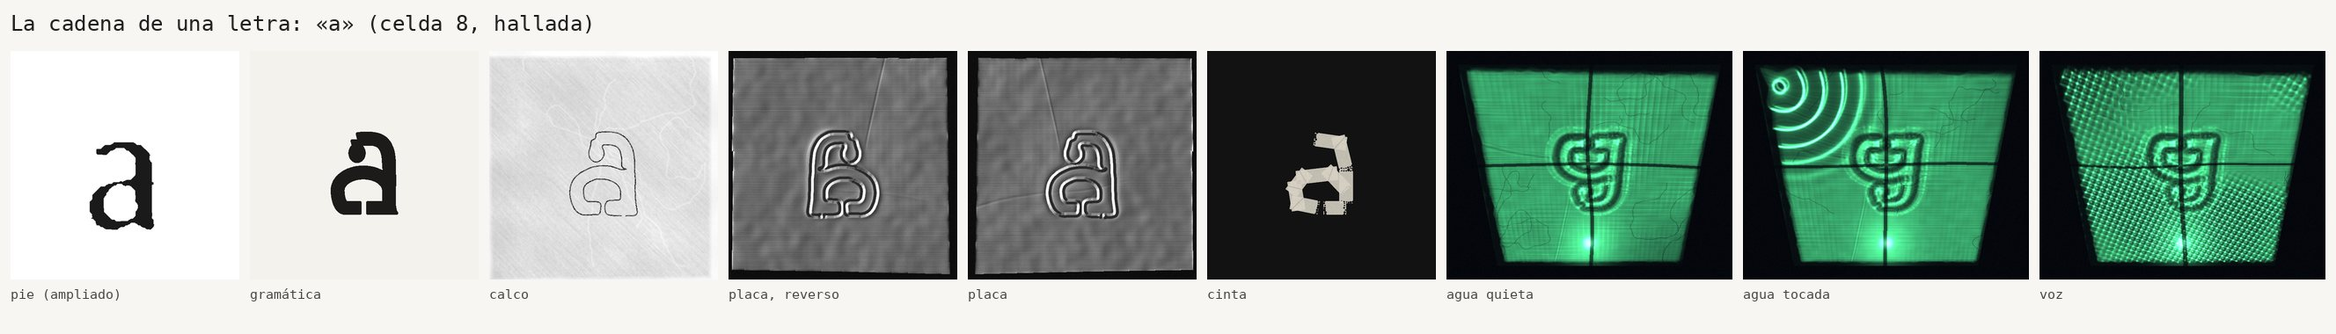
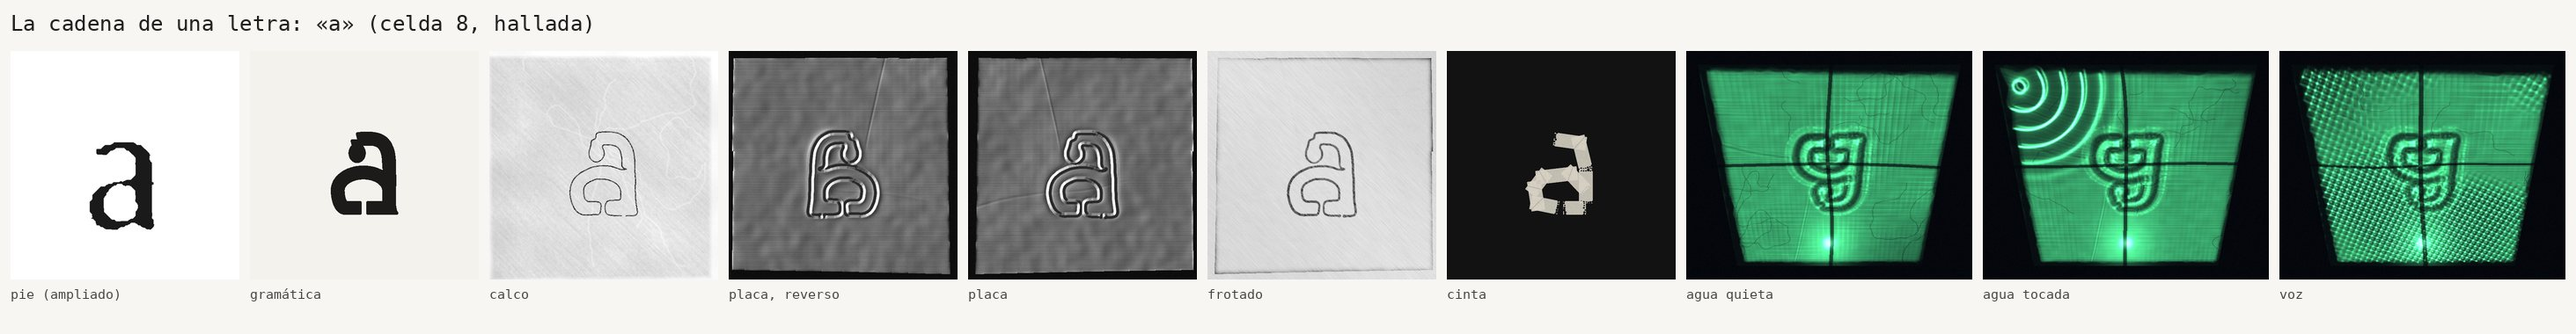
Suma el frotado de la placa como sexto simulador
Un papel sobre la placa, por el anverso, frotado con grafito: el gesto de
la acción 1, ahora sobre la letra. El papel toca toda la hoja y se carga
donde la placa sube por encima de su entorno. Cada frotada aplasta un
poco el relieve; se frota hasta que la letra no se lee, y el peso de una
letra se mide en frotadas. Las halladas se leen unas 21; las
reconstruidas, a puntos, unas 10. El signo final (un domo liso) no da
frotada.

Claude-Session: https://claude.ai/code/session_01N5Zkq8zbLz6mFAaknT38uV

diff --git a/tipografia/simulacion/simular.py b/tipografia/simulacion/simular.py
@@ -5,7 +5,7 @@ Uso (desde la raíz del repositorio, después de inventario.py):
     python3 tipografia/simulacion/simular.py
 
 Arma el testigo del pie y la gramática, y corre los simuladores del taller
-—calco, placa, cinta, agua y voz— sobre las 56 celdas y las 119 placas.
+—calco, placa, frotado, cinta, agua y voz— sobre las 56 celdas y las 119 placas.
 Escribe en tipografia/simulacion/salida/:
   láminas (JPG y PNG) por estado,
   agua.gif (la palabra «agua» en el agua tocada) y voz.gif (la palabra «voz» movida por una voz),
@@ -29,7 +29,7 @@ from comun import (CELDAS, FUENTE_TESTIGO, GLIFOS, POR_SIGNO, SALIDA, T, VERSOS,
                    guardar, lamina, poliza, rotulo)
 from contener import foto_placa, repujar_placa, reverso, signo_final
 from desenterrar import calco, celda_notdef, desenterrar, dibujar_trazos, frotado, pared
-from devolver import agua, agua_tocada_en_bucle, foto_agua, voz_del_verso, voz_en_bucle
+from devolver import agua, agua_tocada_en_bucle, foto_agua, frotadas, voz_del_verso, voz_en_bucle
 from gramatica import V, celda, encintar, imagen_cuerpo
 
 OSCURO = dict(fondo=(0.06, 0.06, 0.08), tinta=(0.85, 0.9, 0.85), junta=(0.12, 0.12, 0.14))
@@ -131,6 +131,26 @@ def main():
         fila_de_paneles([f for _, f in rotas], [f"«{s}» rota" for s, _ in rotas], SALIDA / "04b_placas_rotas.jpg", alto=260,
                         titulo="Placas que se rompieron: se guardan en la caja y se hace otra")
 
+    # ------------------------------------------------ frotado: papel y grafito sobre la placa
+    paso("frotado: frotar cada placa hasta que no se lea")
+    frotados, legibles = {}, {}
+    for c in CELDAS:
+        celda_ = c["celda"]
+        imgs, n = frotadas(placas[(celda_, 1)], azar("frotado", celda_))
+        frotados[celda_] = imgs[1]
+        legibles[celda_] = n
+        fichas[f"{celda_:02d}.01"]["frotado"] = {"legibles": n}
+        if celda_ == POR_SIGNO["a"]["celda"]:
+            orden = sorted(imgs)
+            fila_de_paneles([imgs[k] for k in orden], [f"frotada {k}" + (" (la última que se lee)" if k == n else "")
+                                                         for k in orden],
+                            SALIDA / "08b_frotadas_de_la_a.jpg", alto=300,
+                            titulo=f"La misma «a» frotada una y otra vez: cada frotada aplasta el relieve. Se leyeron {n}")
+    lamina(frotados, "Frotado · simulación",
+           "Un papel sobre la placa, por el anverso, frotado con grafito: el mismo gesto con el que empezó todo (la pared).\n"
+           "Se marca lo que sobresale. Primera frotada de cada placa; cada una aplasta un poco el relieve.",
+           SALIDA / "08_frotado.jpg")
+
     # ------------------------------------------------ cinta: la letra con la masking de ojos y boca
     paso("cinta: la letra puesta con masking")
     cintas = {}
@@ -192,16 +212,17 @@ def main():
         t = D["testigos"].get(s)
         primero = [cuadrado(1 - t["crudo"].astype(np.float32) * 0.9)] if t else [np.ones((T, T), np.float32)]
         paneles = primero + [imagen_cuerpo(D["gramatica"][s]["mascara"]), calcos[celda_], foto_r[celda_], foto_a[celda_],
-                             cintas[celda_], quietas[celda_], tocadas[celda_], voces[celda_]]
+                             frotados[celda_], cintas[celda_], quietas[celda_], tocadas[celda_], voces[celda_]]
         rot = (["pie (ampliado)"] if t else ["no está en el pie"]) + ["gramática", "calco", "placa, reverso", "placa",
-                                                                     "cinta", "agua quieta", "agua tocada", "voz"]
+                                                                     "frotado", "cinta", "agua quieta", "agua tocada",
+                                                                     "voz"]
         fila_de_paneles(paneles, rot, SALIDA / f"12_cadena_{celda_:02d}.jpg", alto=260,
                         titulo=f"La cadena de una letra: «{s}» (celda {celda_}, {'hallada' if t else 'reconstruida'})")
 
     # ------------------------------------------------ fichas e informe
     paso("fichas e informe")
     (SALIDA / "fichas_simuladas.json").write_text(json.dumps(fichas, ensure_ascii=False, indent=1), encoding="utf8")
-    informe(D, fichas, pol)
+    informe(D, fichas, pol, legibles)
     paso("listo")
 
 
@@ -412,7 +433,7 @@ def lamina_antes_y_despues(D, letras="aoegrcfsjiáqbp"):
     guardar(SALIDA / "03d_antes_y_despues.png", lienzo)
 
 
-def informe(D, fichas, pol):
+def informe(D, fichas, pol, legibles):
     med, e = D["med"], D["esqueleto"]
     P = D["parametros"]
 
@@ -437,6 +458,14 @@ def informe(D, fichas, pol):
                 + ("**Lo que la máquina no diseñó y apareció:** las reconstruidas, hechas a puntos, llegan más débiles al agua. "
                    "El punteado tiene menos relieve que el surco y desvía menos luz: en el agua, las hipótesis se ven menos."
                    if cr < ch else "Las reconstruidas no llegan más débiles al agua."))
+    sig = {c["celda"]: c["signo"] for c in CELDAS}
+    orden = sorted(((c, n) for c, n in legibles.items() if est[c] != "manos"), key=lambda kv: kv[1])
+    final = next(n for c, n in legibles.items() if est[c] == "manos")
+    fh = np.mean([n for c, n in legibles.items() if est[c] == "hallada"])
+    fr = np.mean([n for c, n in legibles.items() if est[c] == "reconstruida"])
+    frotado_txt = (f"Las halladas se leen, en promedio, hasta la frotada {coma(fh)}; las reconstruidas, hasta la {coma(fr)}. "
+                   + ("**Lo que la máquina no diseñó y apareció:** las hipótesis, hechas a puntos, tienen menos relieve que "
+                      "tomar el grafito y se borran antes." if fr < fh else "Las reconstruidas no se borran antes que las halladas."))
     tramos = sum(f.get("cinta", {}).get("tramos", 0) for f in fichas.values())
     pliegues = sum(f.get("cinta", {}).get("pliegues", 0) for f in fichas.values())
     xh = e["xh"]
@@ -448,8 +477,8 @@ def informe(D, fichas, pol):
          "",
          "La semilla es fija (el 22 de agosto de 2026): el resultado es siempre el mismo. Cambiarla es cambiar de mano.",
          "",
-         "La máquina simula cinco estados del taller: **calco, placa, cinta, agua y voz**. Antes arma el testigo del pie y "
-         "la gramática, que da el cuerpo base de cada signo.",
+         "La máquina simula seis estados del taller: **calco, placa, frotado, cinta, agua y voz**. Antes arma el testigo del "
+         "pie y la gramática, que da el cuerpo base de cada signo.",
          "",
          "## Lo que la máquina tuvo que suponer",
          "",
@@ -462,6 +491,7 @@ def informe(D, fichas, pol):
          "- **La celda:** 0,84 de ancho por alto, la proporción de las celdas de la cabeza del ídolo. En la foto cercana de la "
          "cabeza, el paso de la retícula de 8 × 7 mide 0,81 en los bordes y 0,91 al centro (promedio 0,86): el dibujo curva "
          "la cabeza como un cilindro. El 0,84 cae dentro.",
+         "- **El frotado:** cada frotada aplasta entre un 5 y un 9 % del relieve del surco. Es un supuesto: se mide frotando.",
          "- **La voz:** no es la tuya. Es el ritmo silábico del poema, con alturas inventadas entre 110 y 220 Hz.",
          "- **El signo final:** la máquina no tiene dedos. Simula una sola presión de un pulgar genérico.",
          "",
@@ -593,6 +623,23 @@ def informe(D, fichas, pol):
           "",
           "![Rotas](salida/04b_placas_rotas.jpg)",
           "",
+          "## Frotado",
+          "",
+          "![Frotado](salida/08_frotado.jpg)",
+          "",
+          "![Frotadas de la a](salida/08b_frotadas_de_la_a.jpg)",
+          "",
+          "Un papel sobre la placa, por el anverso, frotado con grafito: el gesto de la acción 1, ahora sobre la letra. El papel "
+          "no entra en los valles finos; toca toda la hoja y se carga donde la placa sube por encima de su entorno. Se frota "
+          "hasta que la letra no se lee: **el peso de una letra se mide en frotadas.** " + frotado_txt,
+          "",
+          "**Las primeras en borrarse:** " + ", ".join(f"«{sig[c]}» ({n})" for c, n in orden[:8]) + ".",
+          "",
+          "**Las últimas:** " + ", ".join(f"«{sig[c]}» ({n})" for c, n in orden[-8:]) + ".",
+          "",
+          (f"El signo final, una presión de pulgar, da {final} frotadas legibles: el domo es liso y el papel lo acompaña; "
+           "solo marca el filo." if final == 0 else f"El signo final, una presión de pulgar, da {final} frotadas legibles."),
+          "",
           "## Cinta",
           "",
           "![Cinta](salida/07_cinta.jpg)",
@@ -634,6 +681,7 @@ def informe(D, fichas, pol):
           "- **El libro:** qué letra tiene el pie en su tamaño real, ni cómo se imprimió. La foto da sus medidas, no sus formas.",
           "- **La mano:** el temblor es ruido con un ritmo; no cansa, no duda, no se distrae.",
           "- **El aluminio:** cómo se rompe de verdad. Aquí se rompe con una probabilidad.",
+          "- **El grafito:** cuánto relieve se lleva cada frotada.",
           "- **La cinta:** cómo se despega de verdad; aquí cada tramo deja un residuo supuesto.",
           "- **El agua:** un solo rebote, un eco desplazado y ninguna polarización.",
           "- **La voz:** no es la tuya.",
@@ -643,7 +691,7 @@ def informe(D, fichas, pol):
           "Cuando exista tu propuesta, conviene guardarla con los mismos nombres para compararlas placa por placa:",
           "",
           "- **Fotos:** `tipografia/mano/<estado>/<celda>_<variante>.jpg`, con dos dígitos (`mano/placa/08_01.jpg`) y estas "
-          "carpetas de estado: `calco`, `placa`, `cinta`, `agua`, `voz`.",
+          "carpetas de estado: `calco`, `placa`, `frotado`, `cinta`, `agua`, `voz`.",
           "- **Fichas:** `tipografia/mano/fichas.json`, con los mismos campos que `salida/fichas_simuladas.json`.",
           "",
           "**Qué se compara:**",
@@ -654,8 +702,9 @@ def informe(D, fichas, pol):
           "3. **Reconstrucciones:** las 25 recetas de la máquina contra las tuyas. Es donde más van a diferir, y donde más "
           "interesa.",
           "4. **Tiempo y roturas:** horas, intentos y roturas por placa.",
-          "5. **Agua:** si las reconstruidas también llegan más débiles.",
-          "6. **Voz:** qué sílaba le tocó a cada placa y qué onda dejó.",
+          "5. **Frotado:** cuántas frotadas se leen, y qué signos se borran primero.",
+          "6. **Agua:** si las reconstruidas también llegan más débiles.",
+          "7. **Voz:** qué sílaba le tocó a cada placa y qué onda dejó.",
           ""]
     (SALIDA.parent / "informe.md").write_text("\n".join(L), encoding="utf8")
 

diff --git a/tipografia/simulacion/devolver.py b/tipografia/simulacion/devolver.py
@@ -1,4 +1,10 @@
-"""Cuaderno 3 · Devolver: el agua y la voz (acciones 9 y 10), simuladas.
+"""Cuaderno 3 · Devolver: el frotado, el agua y la voz (acciones 8 a 10), simulados.
+
+El frotado: un papel sobre la placa, por el anverso, frotado con grafito, el mismo
+gesto con el que empezó todo (la pared). El papel toca toda la hoja, pero se carga
+donde la placa sube por encima de su entorno. Cada frotada aplasta un poco el
+relieve: se frota hasta que la letra no se lee. El peso de una letra se mide en
+frotadas.
 
 La placa en el fondo de una bandeja con un dedo de agua. La luz de una lámpara
 rebota en la placa y cae en unos azulejos: cada punto de la placa desvía la luz
@@ -19,6 +25,67 @@ from desenterrar import pared
 
 VERDE = np.array([0.30, 1.0, 0.58])
 
+
+# ---------------------------------------------------------------- acción 8: el frotado
+
+def _trazos_de_grafito(rng, forma, n=3):
+    """Unas pocas texturas de trazos diagonales: la mano va y viene."""
+    k = np.zeros((25, 25), np.float32)
+    np.fill_diagonal(k, 1)
+    salida = []
+    for _ in range(n):
+        t = cv2.filter2D(rng.standard_normal(forma).astype(np.float32), -1, k / k.sum())
+        salida.append(t / (t.std() + 1e-9))
+    return salida
+
+
+def frotar(altura, mascara, rng, trazo, grano):
+    """Una frotada: el papel no entra en los valles finos (se apoya a unos 2 mm); toca toda la hoja
+    y se carga donde la placa sube por encima de su entorno, y en el filo del corte."""
+    forma = altura.shape
+    h = np.where(mascara, altura, altura[mascara].min() - 0.3)
+    envolvente = cv2.GaussianBlur(h, (0, 0), 7)
+    contacto = 0.16 + 0.84 * np.clip((h - envolvente) / 0.9, 0, 1) ** 1.2
+    presion = 0.85 + 0.12 * ruido(forma, 150, rng)
+    oscuro = 0.8 * contacto * np.clip(presion + 0.14 * trazo + 0.08 * grano, 0, 1.1)
+    return np.clip((0.965 + 0.012 * grano) * (1 - oscuro), 0, 1)
+
+
+def frotadas(placa, rng, maximo=45, guardar=(1, 5, 10, 20)):
+    """Frotadas sucesivas de una misma placa, hasta que la letra no se lee.
+
+    Cada frotada aplasta entre un 5 y un 9 % del relieve del surco, y un poco las arrugas
+    de la hoja. La letra se lee mientras el grafito sobre el surco se aparta del de su
+    alrededor más de tres veces lo que varía ese alrededor. Devuelve las frotadas pedidas
+    (y la última legible) y cuántas se leyeron.
+    """
+    forma = placa["altura"].shape
+    trazos = _trazos_de_grafito(rng, forma)
+    grano = ruido(forma, 0.7, rng)
+    relieve = placa["relieve"].astype(np.float32).copy()
+    base = placa["altura"] - relieve
+    letra = cv2.dilate((np.abs(relieve) > 0.32).astype(np.uint8), np.ones((5, 5), np.uint8)) > 0
+    lejos = ~(cv2.dilate(letra.astype(np.uint8), np.ones((21, 21), np.uint8)) > 0)
+    adentro = cv2.distanceTransform(placa["mascara"].astype(np.uint8), cv2.DIST_L2, 5) > 12
+    alrededor = lejos & adentro                         # la hoja lejos de la letra y del filo del corte
+    imagenes, legibles, ultima = {}, 0, None
+    for n in range(1, maximo + 1):
+        img = frotar(base + relieve, placa["mascara"], rng, np.roll(trazos[n % 3], 37 * n, axis=1), grano)
+        d = cv2.GaussianBlur(1 - img, (0, 0), 1.5)       # el ojo junta los granos del grafito
+        se_lee = d[letra].mean() - d[alrededor].mean() > 3 * d[alrededor].std()
+        if n in guardar:
+            imagenes[n] = img
+        if not se_lee:
+            break
+        legibles, ultima = n, img
+        relieve *= 1 - rng.uniform(0.05, 0.09)
+        base = base * 0.98
+    if ultima is not None:
+        imagenes[legibles] = ultima
+    return imagenes, legibles
+
+
+# ---------------------------------------------------------------- acciones 9 y 10: agua y voz
 
 def superficie_quieta(forma, rng):
     return 1.0 * ruido(forma, 60, rng)

diff --git a/tipografia/simulacion/informe.md b/tipografia/simulacion/informe.md
@@ -4,7 +4,7 @@ Generado por `simular.py`. Es una **hipótesis hecha por código**, para confron
 
 La semilla es fija (el 22 de agosto de 2026): el resultado es siempre el mismo. Cambiarla es cambiar de mano.
 
-La máquina simula cinco estados del taller: **calco, placa, cinta, agua y voz**. Antes arma el testigo del pie y la gramática, que da el cuerpo base de cada signo.
+La máquina simula seis estados del taller: **calco, placa, frotado, cinta, agua y voz**. Antes arma el testigo del pie y la gramática, que da el cuerpo base de cada signo.
 
 ## Lo que la máquina tuvo que suponer
 
@@ -12,6 +12,7 @@ La máquina simula cinco estados del taller: **calco, placa, cinta, agua y voz**
 - **El cuerpo del pie:** 8,5 puntos.
 - **La piscina:** azulejo de 150 mm y junta de 3 mm, hasta que se mida. La pared da el frotado sobre el que se calca.
 - **La celda:** 0,84 de ancho por alto, la proporción de las celdas de la cabeza del ídolo. En la foto cercana de la cabeza, el paso de la retícula de 8 × 7 mide 0,81 en los bordes y 0,91 al centro (promedio 0,86): el dibujo curva la cabeza como un cilindro. El 0,84 cae dentro.
+- **El frotado:** cada frotada aplasta entre un 5 y un 9 % del relieve del surco. Es un supuesto: se mide frotando.
 - **La voz:** no es la tuya. Es el ritmo silábico del poema, con alturas inventadas entre 110 y 220 Hz.
 - **El signo final:** la máquina no tiene dedos. Simula una sola presión de un pulgar genérico.
 
@@ -184,6 +185,20 @@ Papel de aluminio de cocina, cortado a tijera: cada lado en dos o tres cortes, c
 
 ![Rotas](salida/04b_placas_rotas.jpg)
 
+## Frotado
+
+![Frotado](salida/08_frotado.jpg)
+
+![Frotadas de la a](salida/08b_frotadas_de_la_a.jpg)
+
+Un papel sobre la placa, por el anverso, frotado con grafito: el gesto de la acción 1, ahora sobre la letra. El papel no entra en los valles finos; toca toda la hoja y se carga donde la placa sube por encima de su entorno. Se frota hasta que la letra no se lee: **el peso de una letra se mide en frotadas.** Las halladas se leen, en promedio, hasta la frotada 22,1; las reconstruidas, hasta la 9,8. **Lo que la máquina no diseñó y apareció:** las hipótesis, hechas a puntos, tienen menos relieve que tomar el grafito y se borran antes.
+
+**Las primeras en borrarse:** «é» (7), «;» (8), «:» (8), «»» (8), «z» (9), «?» (9), «ñ» (9), «2» (9).
+
+**Las últimas:** «)» (23), «b» (23), «s» (24), «o» (24), «r» (24), «l» (24), «c» (24), «í» (24).
+
+El signo final, una presión de pulgar, da 0 frotadas legibles: el domo es liso y el papel lo acompaña; solo marca el filo.
+
 ## Cinta
 
 ![Cinta](salida/07_cinta.jpg)
@@ -219,6 +234,7 @@ El poema se lee una vez en voz alta junto a la bandeja, mientras se fotografían
 - **El libro:** qué letra tiene el pie en su tamaño real, ni cómo se imprimió. La foto da sus medidas, no sus formas.
 - **La mano:** el temblor es ruido con un ritmo; no cansa, no duda, no se distrae.
 - **El aluminio:** cómo se rompe de verdad. Aquí se rompe con una probabilidad.
+- **El grafito:** cuánto relieve se lleva cada frotada.
 - **La cinta:** cómo se despega de verdad; aquí cada tramo deja un residuo supuesto.
 - **El agua:** un solo rebote, un eco desplazado y ninguna polarización.
 - **La voz:** no es la tuya.
@@ -227,7 +243,7 @@ El poema se lee una vez en voz alta junto a la bandeja, mientras se fotografían
 
 Cuando exista tu propuesta, conviene guardarla con los mismos nombres para compararlas placa por placa:
 
-- **Fotos:** `tipografia/mano/<estado>/<celda>_<variante>.jpg`, con dos dígitos (`mano/placa/08_01.jpg`) y estas carpetas de estado: `calco`, `placa`, `cinta`, `agua`, `voz`.
+- **Fotos:** `tipografia/mano/<estado>/<celda>_<variante>.jpg`, con dos dígitos (`mano/placa/08_01.jpg`) y estas carpetas de estado: `calco`, `placa`, `frotado`, `cinta`, `agua`, `voz`.
 - **Fichas:** `tipografia/mano/fichas.json`, con los mismos campos que `salida/fichas_simuladas.json`.
 
 **Qué se compara:**
@@ -236,5 +252,6 @@ Cuando exista tu propuesta, conviene guardarla con los mismos nombres para compa
 2. **Métricas:** la base y la altura de x que dio la foto contra las que dio el testigo sustituto.
 3. **Reconstrucciones:** las 25 recetas de la máquina contra las tuyas. Es donde más van a diferir, y donde más interesa.
 4. **Tiempo y roturas:** horas, intentos y roturas por placa.
-5. **Agua:** si las reconstruidas también llegan más débiles.
-6. **Voz:** qué sílaba le tocó a cada placa y qué onda dejó.
+5. **Frotado:** cuántas frotadas se leen, y qué signos se borran primero.
+6. **Agua:** si las reconstruidas también llegan más débiles.
+7. **Voz:** qué sílaba le tocó a cada placa y qué onda dejó.
